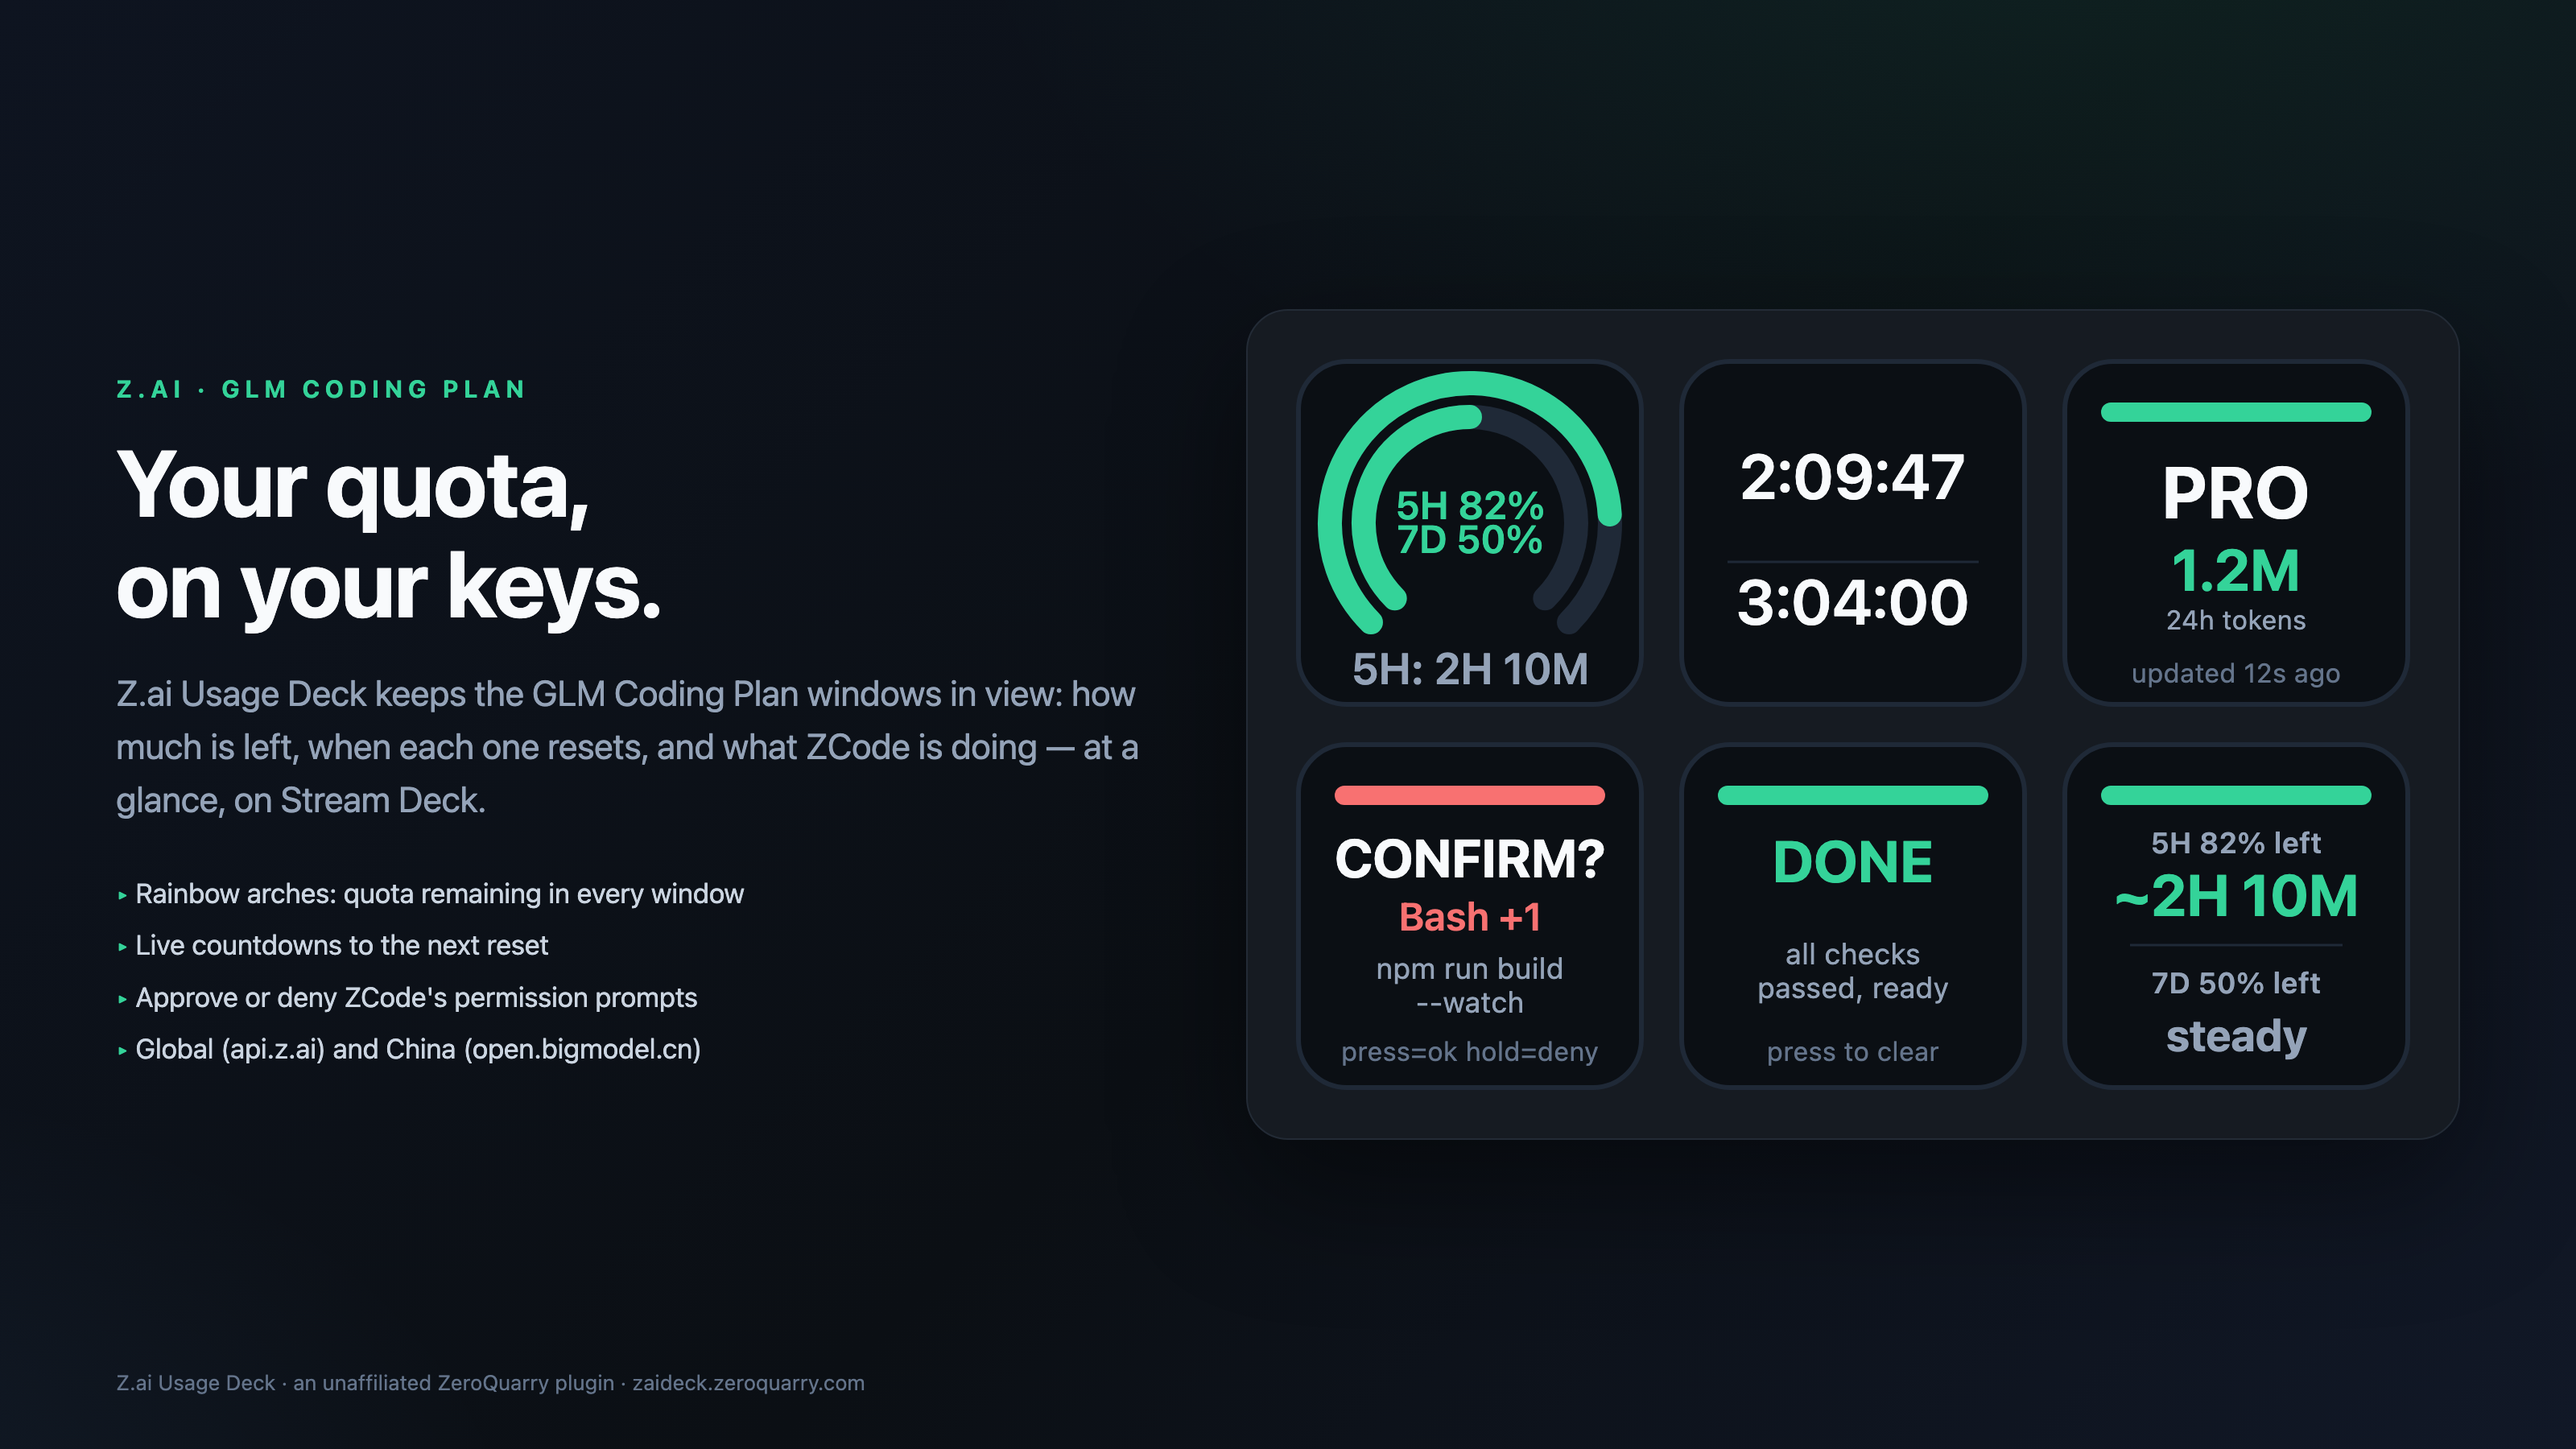
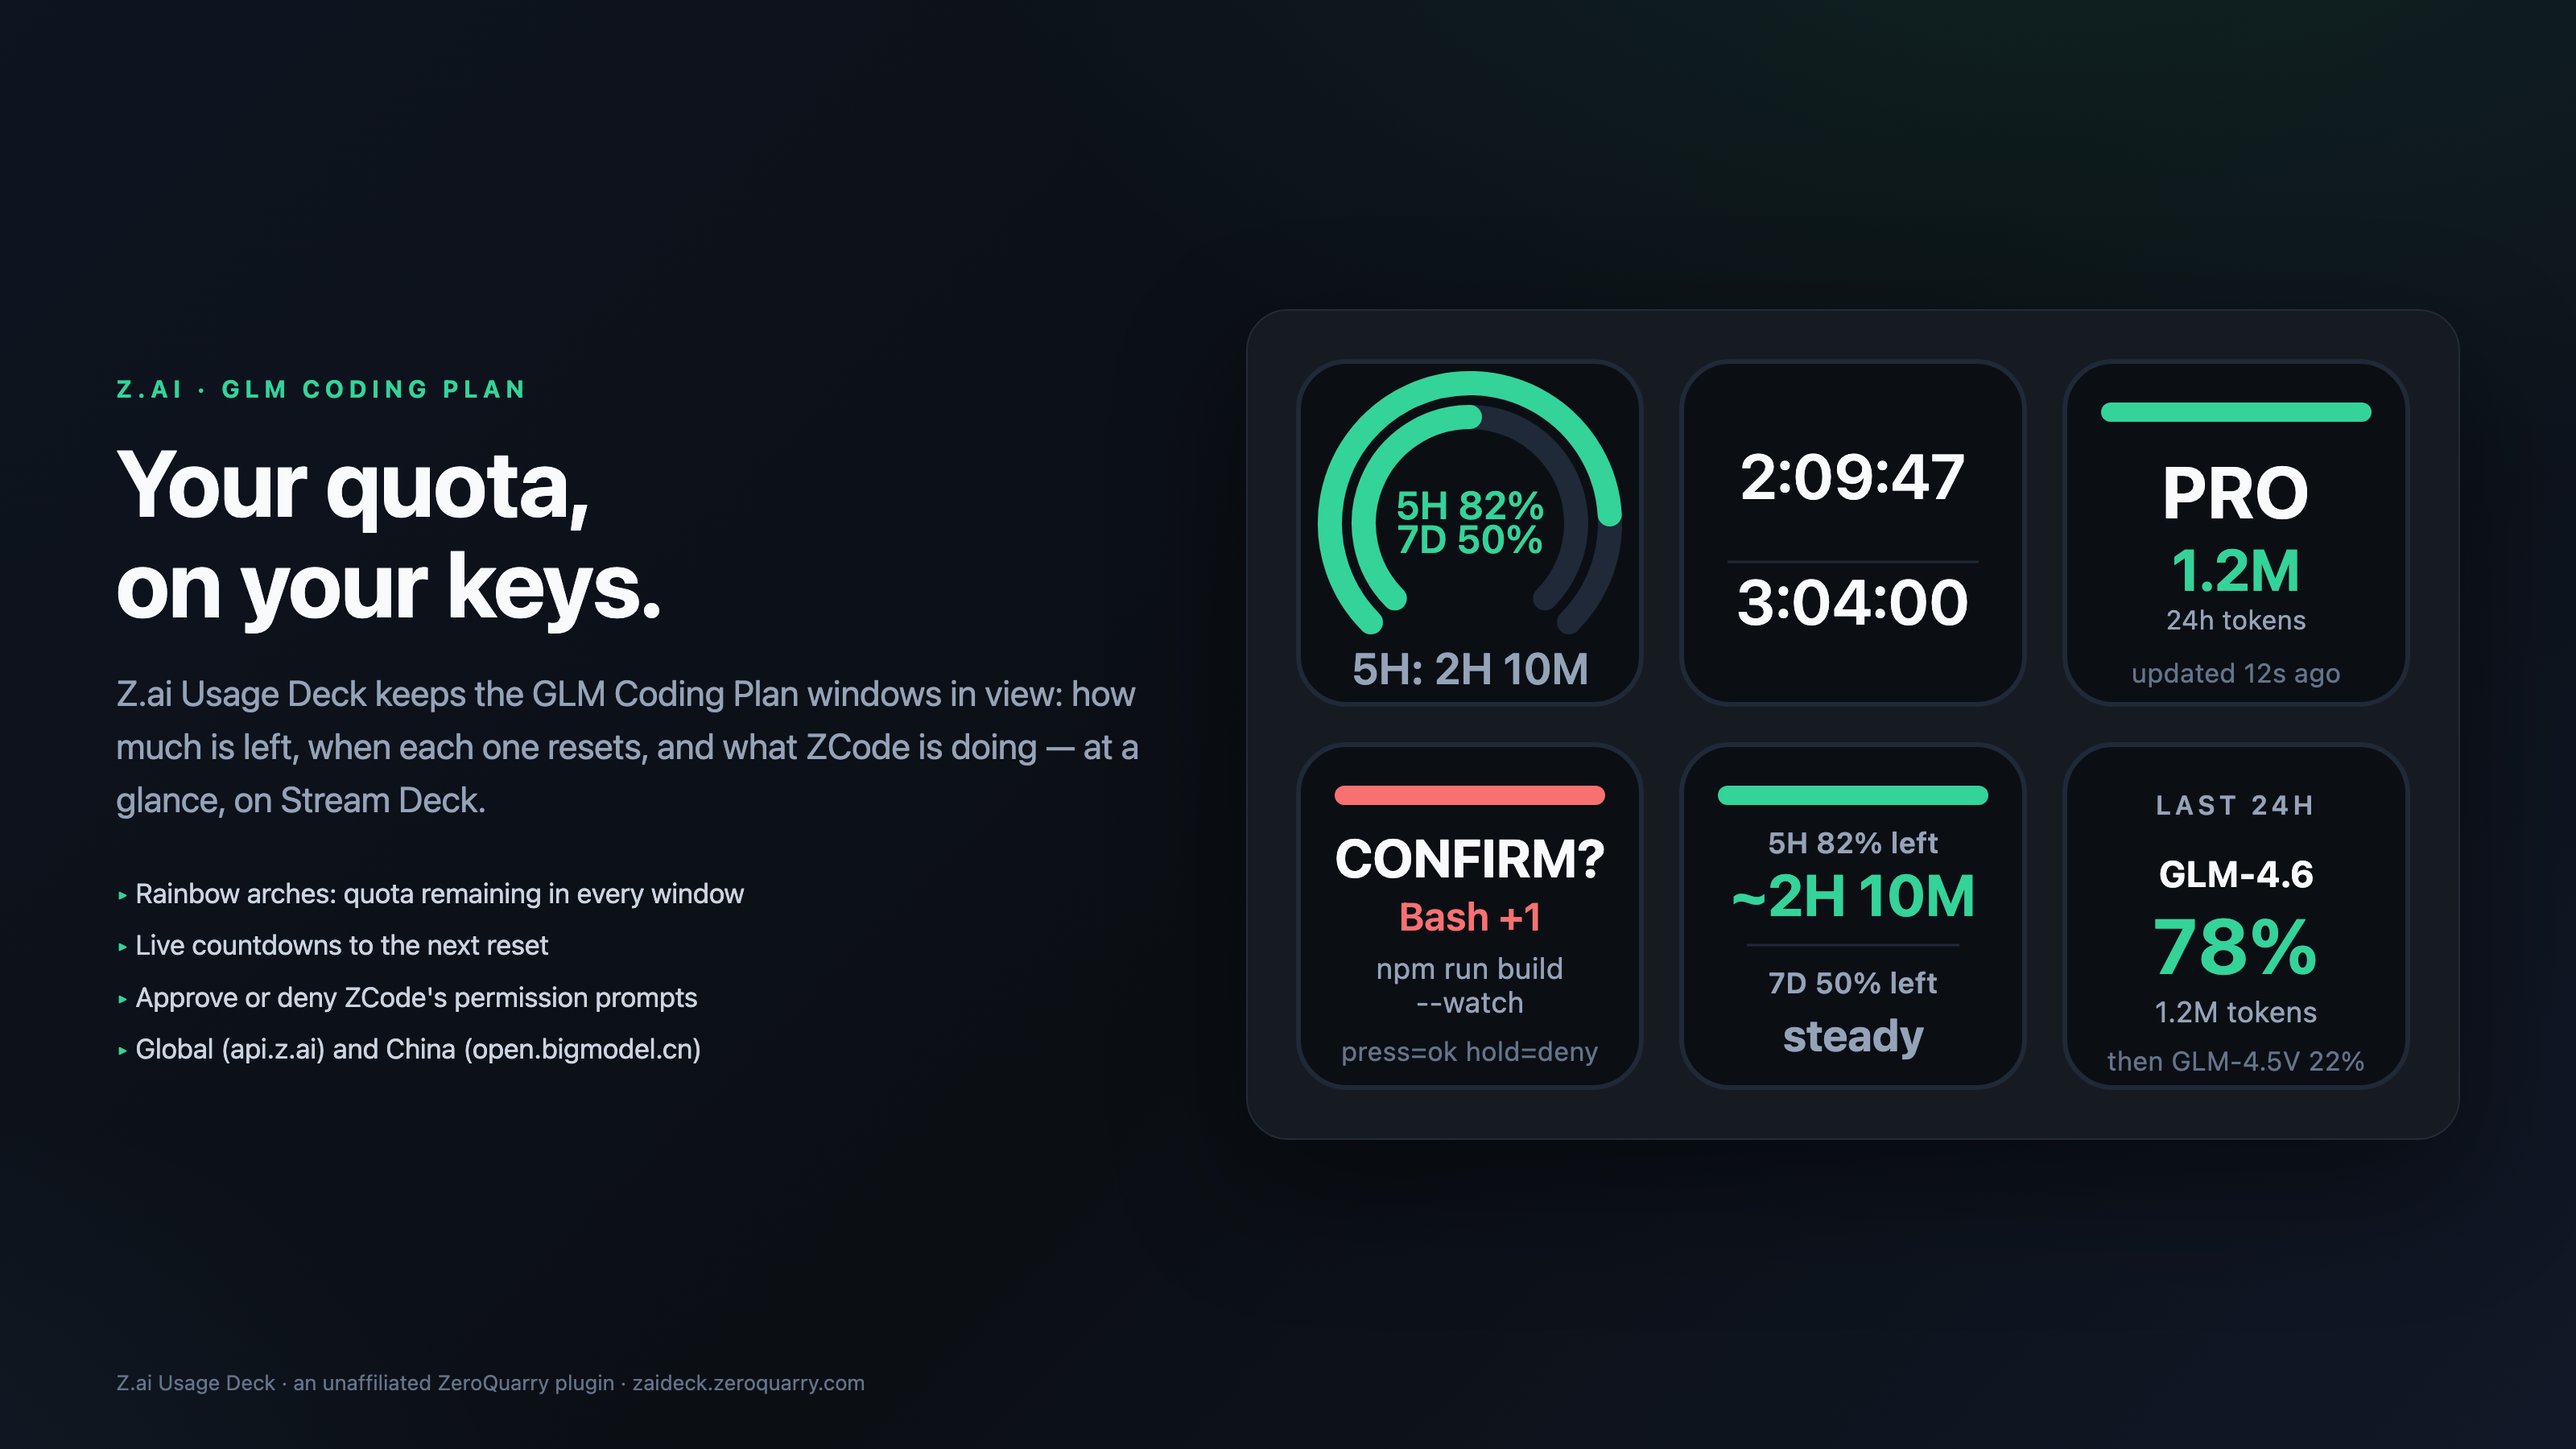
Document the Model Mix tile and onboarding presses; refresh shots

Changed region(s): [[0.8125, 0.5289, 0.9375, 0.7467], [0.6875, 0.56, 0.7812, 0.7467]]

diff --git a/index.html b/index.html
@@ -96,7 +96,7 @@
 				<li>For the agent keys: the <a href="#bridge">ZCode bridge</a> (one command, run once).</li>
 			</ul>
 
-			<h2>Quick start</h2>
+			<h2 id="quick-start">Quick start</h2>
 			<ul>
 				<li><strong>Install</strong> the plugin from the Elgato Marketplace and drag any action onto a key.</li>
 				<li><strong>Open any key's property inspector</strong> — every action shares one account block at the top.
@@ -106,18 +106,21 @@
 					(<code>zai…3456</code>) is ever shown.</li>
 				<li><strong>Press Test connection</strong> — a one-shot quota read that reports the windows it found
 					(<code>global · plan pro · 5H 82% · 7D 50%</code>).</li>
+				<li><strong>Press any key before it is configured</strong> and the docs open at the section that
+					unblocks you — quick start for the account keys, the bridge setup for the agent keys.</li>
 				<li><strong>Set the refresh cadence</strong> (15 s to 1 h, 60 s by default; failures back off
 					exponentially to five minutes) and pick your region. The plugin re-reads immediately whenever your
 					computer wakes up.</li>
 			</ul>
 
-			<h2>The seven actions</h2>
+			<h2>The eight actions</h2>
 			<div class="actions">
 				<div class="action"><h3>What Remains</h3><p>Concentric rainbows whose filled length is the quota <strong>left</strong> in each window, with the reset countdown under the arch.</p></div>
 				<div class="action"><h3>Reset Timer</h3><p>Live countdown to the next reset: the shorter window on top, the longer one beneath, ticking on the key's own clock.</p></div>
 				<div class="action"><h3>Pace</h3><p>How long each window lasts at the pace it is being drained — <code>~2H 10M</code>, or <code>steady</code> when nothing is running.</p></div>
 				<div class="action"><h3>24h Tokens</h3><p>A sparkline of token burn across the last day, the current hour brightest, with the 24-hour total.</p></div>
 				<div class="action"><h3>Status / Refresh</h3><p>Plan label, tokens used in the last 24 hours and data freshness. Press to refresh any time.</p></div>
+				<div class="action"><h3>Model Mix</h3><p>Which models burned the last day's tokens — the leader's share, then the runner-up.</p></div>
 				<div class="action"><h3>Agent Confirm</h3><p>Lights up when ZCode awaits a permission decision. <strong>Press</strong> to approve, <strong>hold</strong> to deny.</p></div>
 				<div class="action"><h3>Agent Stopped</h3><p>Lights up green when a ZCode thread finishes responding, cleared by the next prompt or a press.</p></div>
 			</div>
